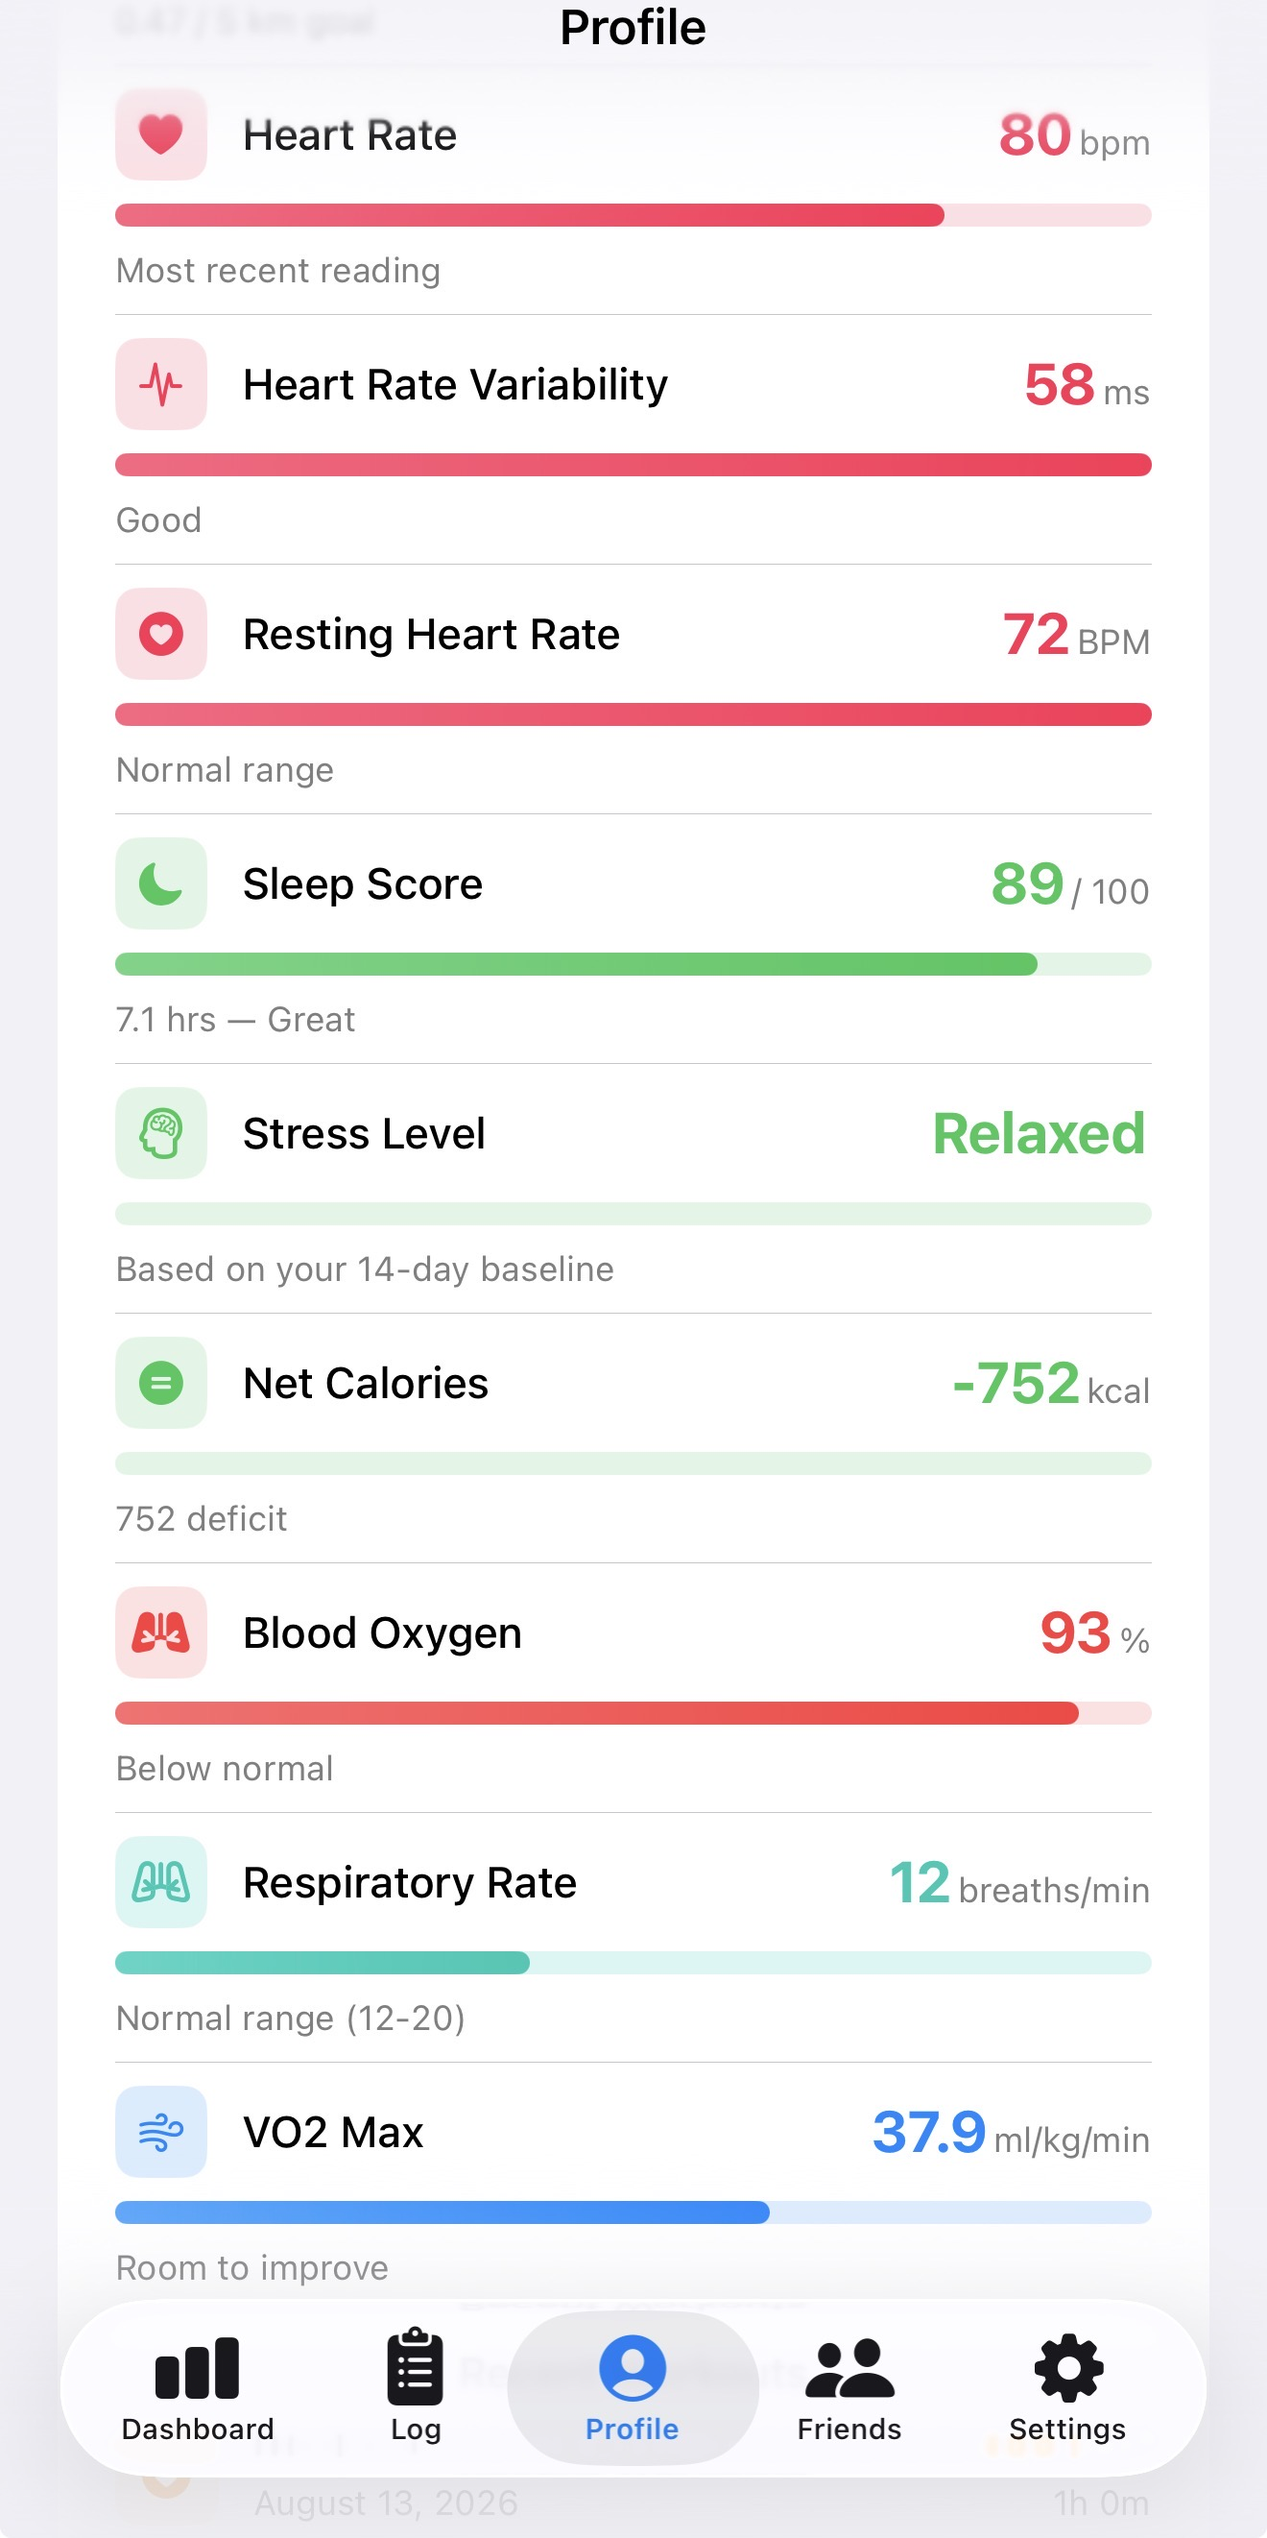
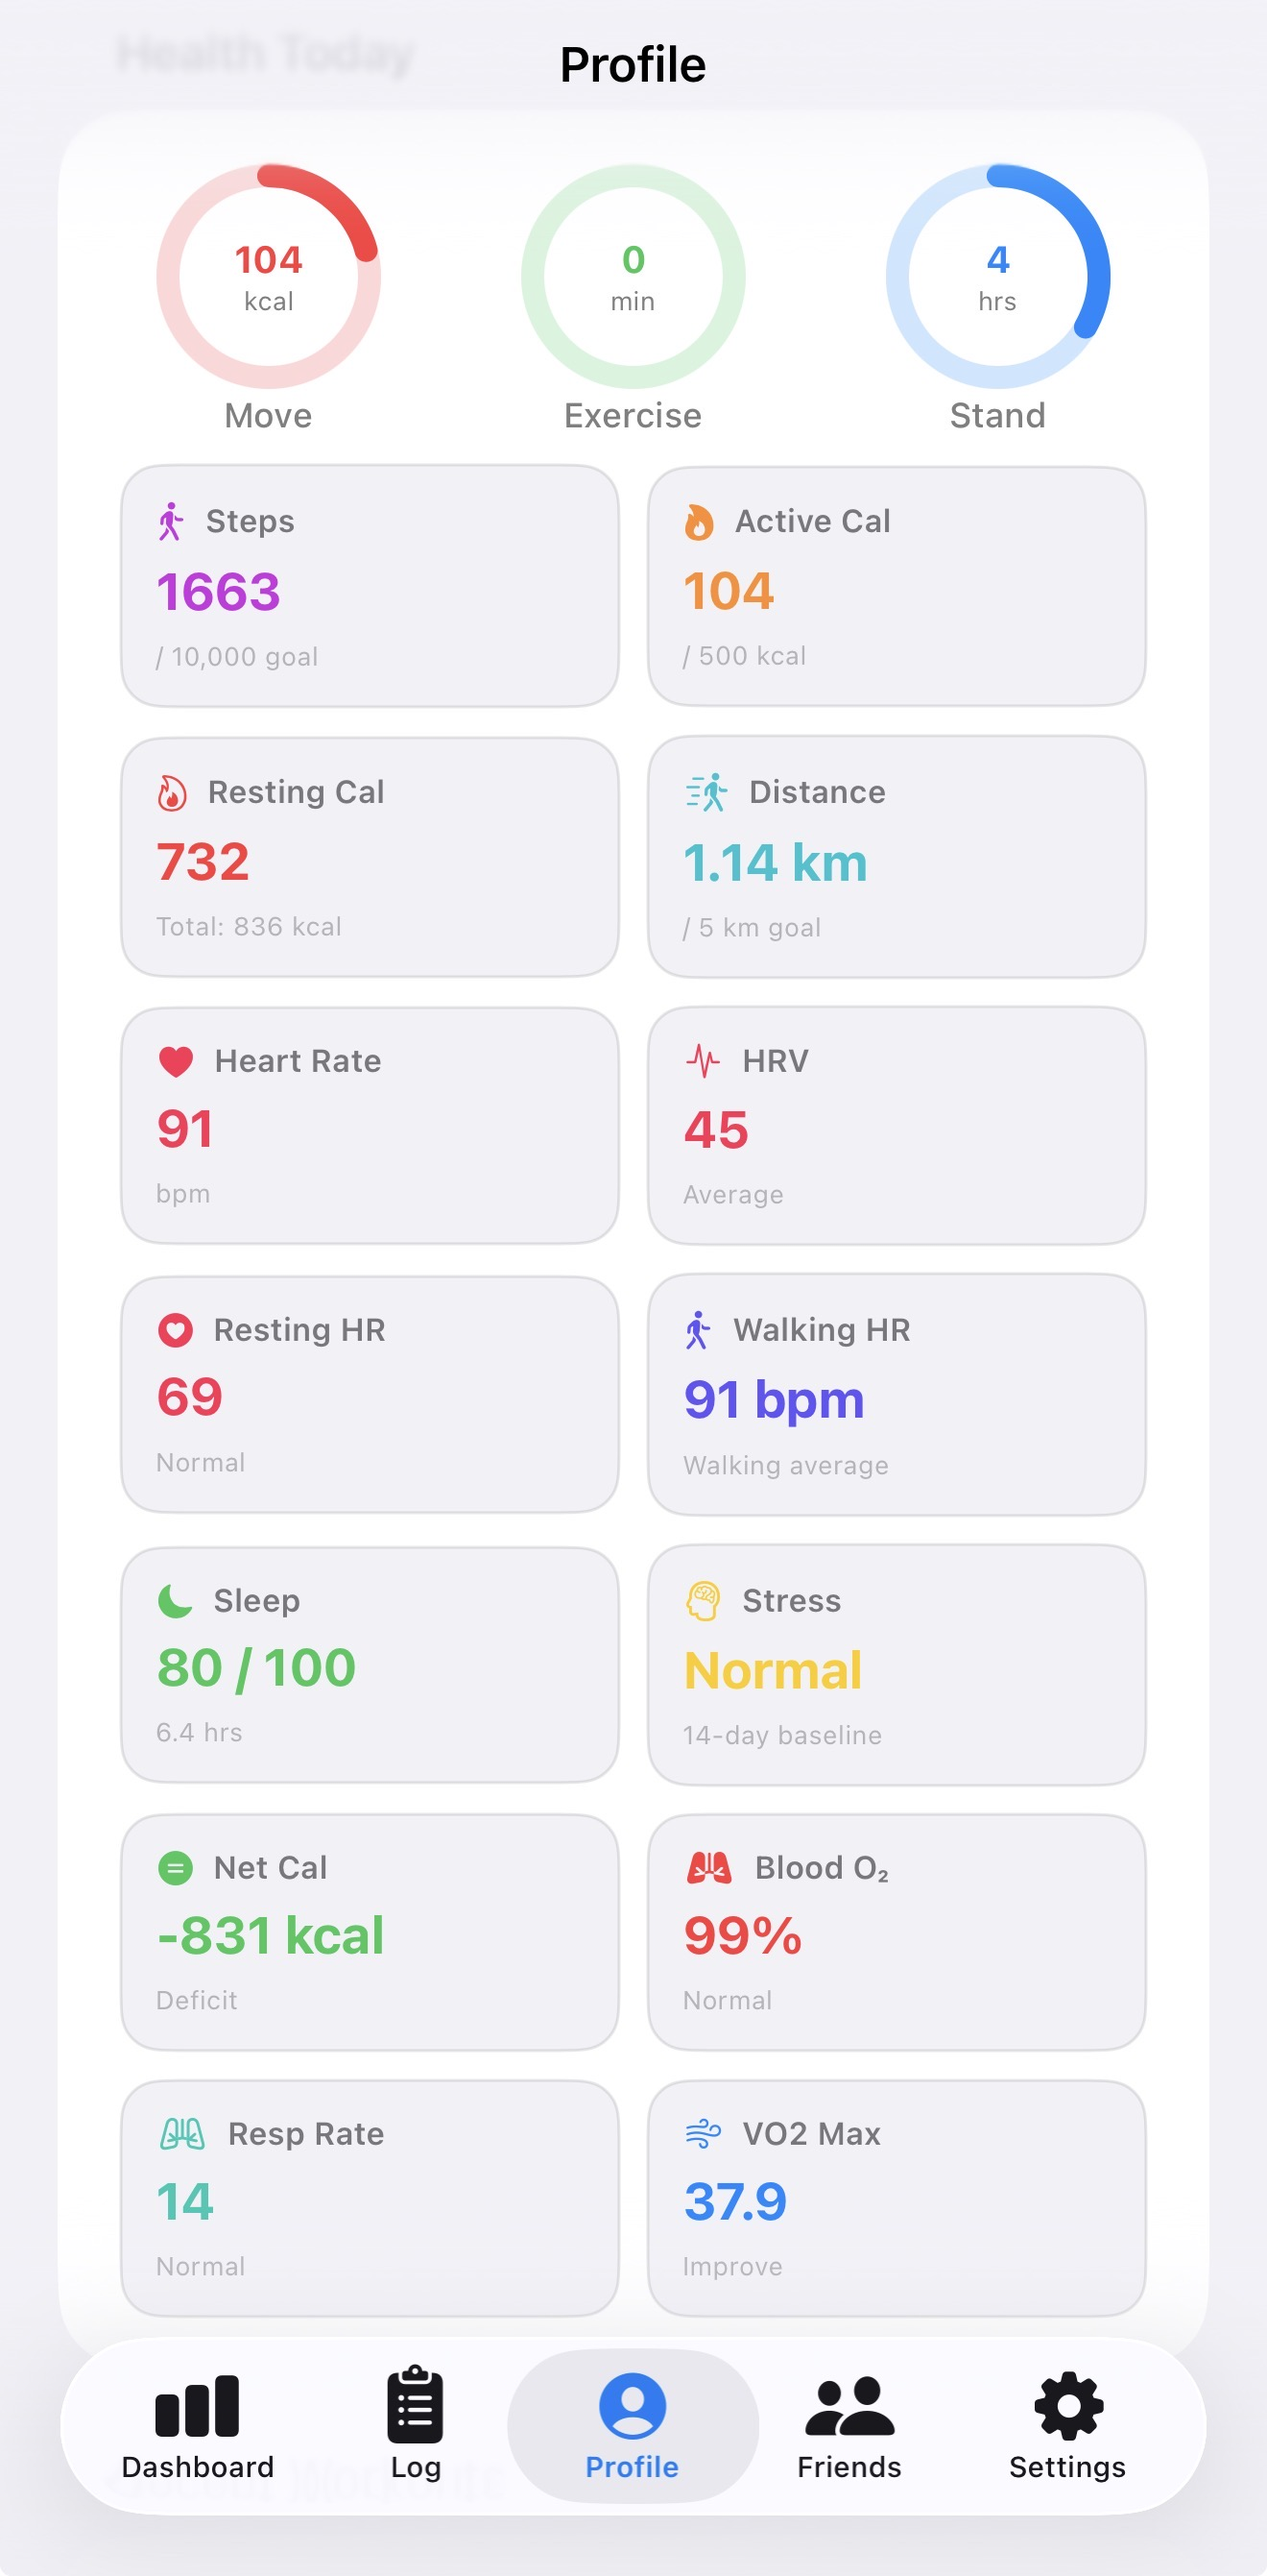
Updated Profile Health screenshot

diff --git a/index.html b/index.html
@@ -843,7 +843,7 @@
         <!-- Health Screenshot -->
         <div class="flex justify-center mt-12 mb-4">
           <img
-            src="https://macroit.fit/assets/screenshots/profile-health.jpeg?v=1"
+            src="https://macroit.fit/assets/screenshots/profile-health.jpeg?v=2"
             alt="MacroIt Profile Health Metrics"
             class="rounded-2xl shadow-lg"
             style="max-height: 500px; width: auto"
